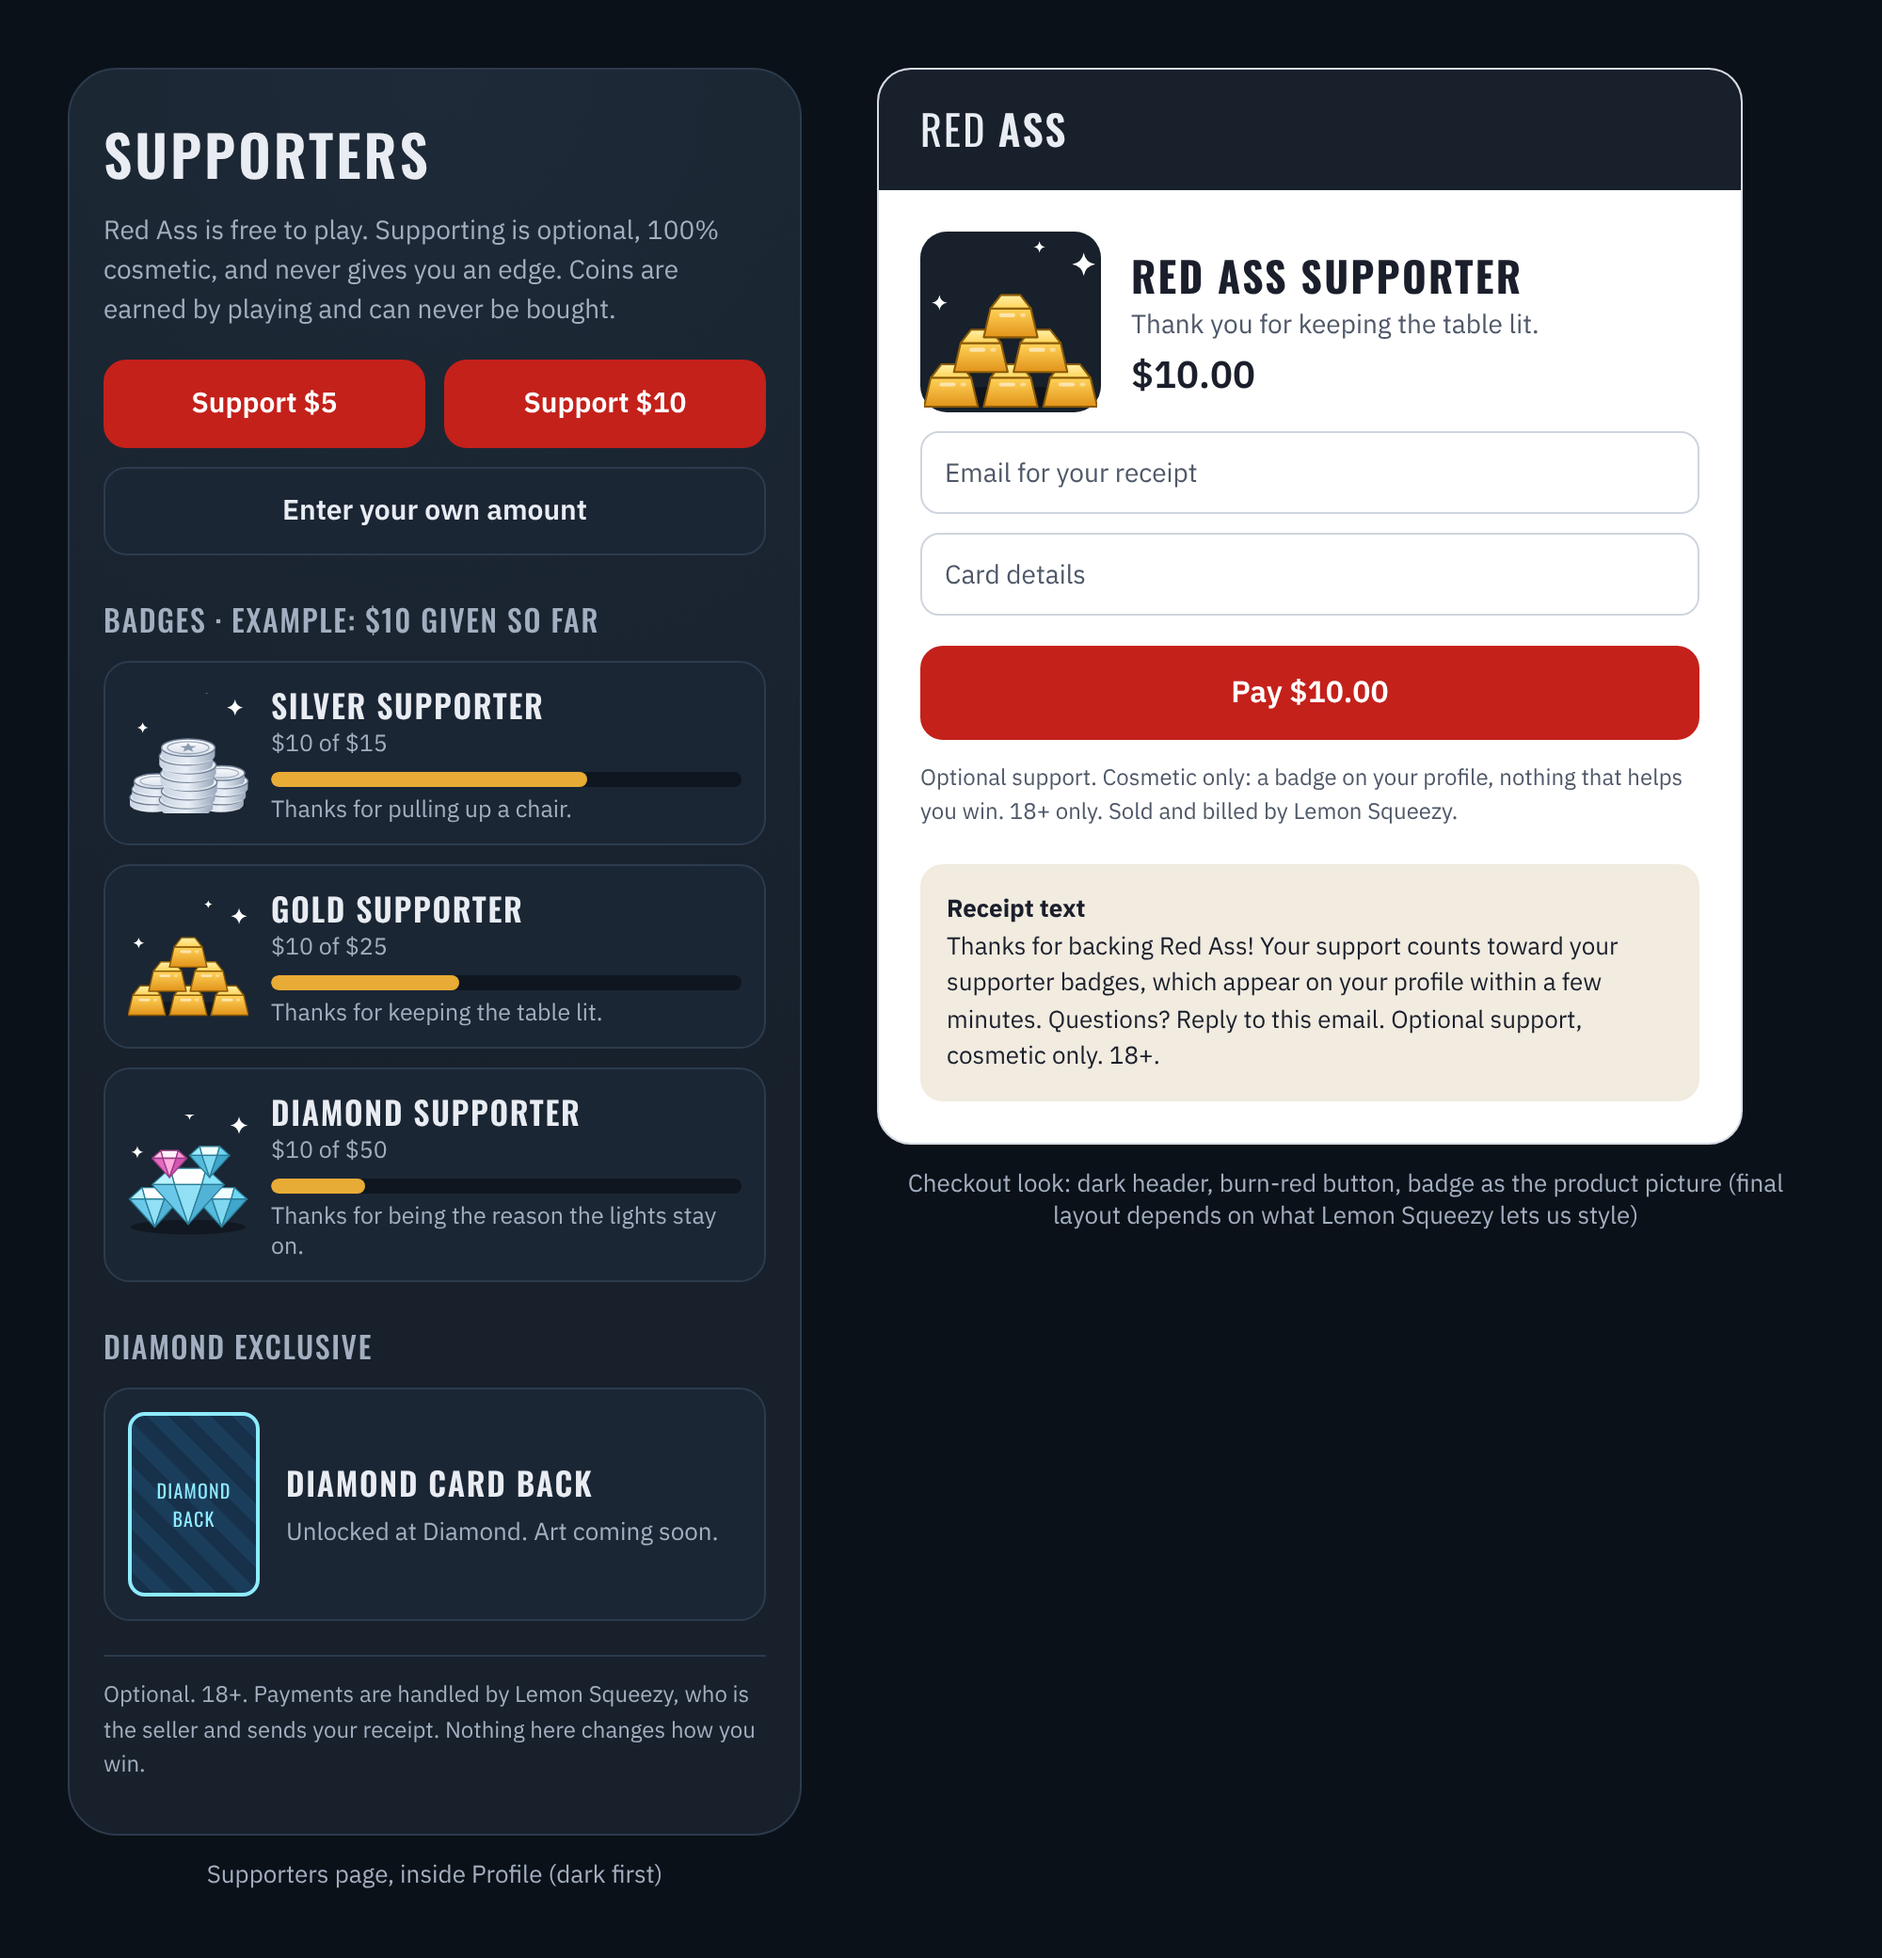
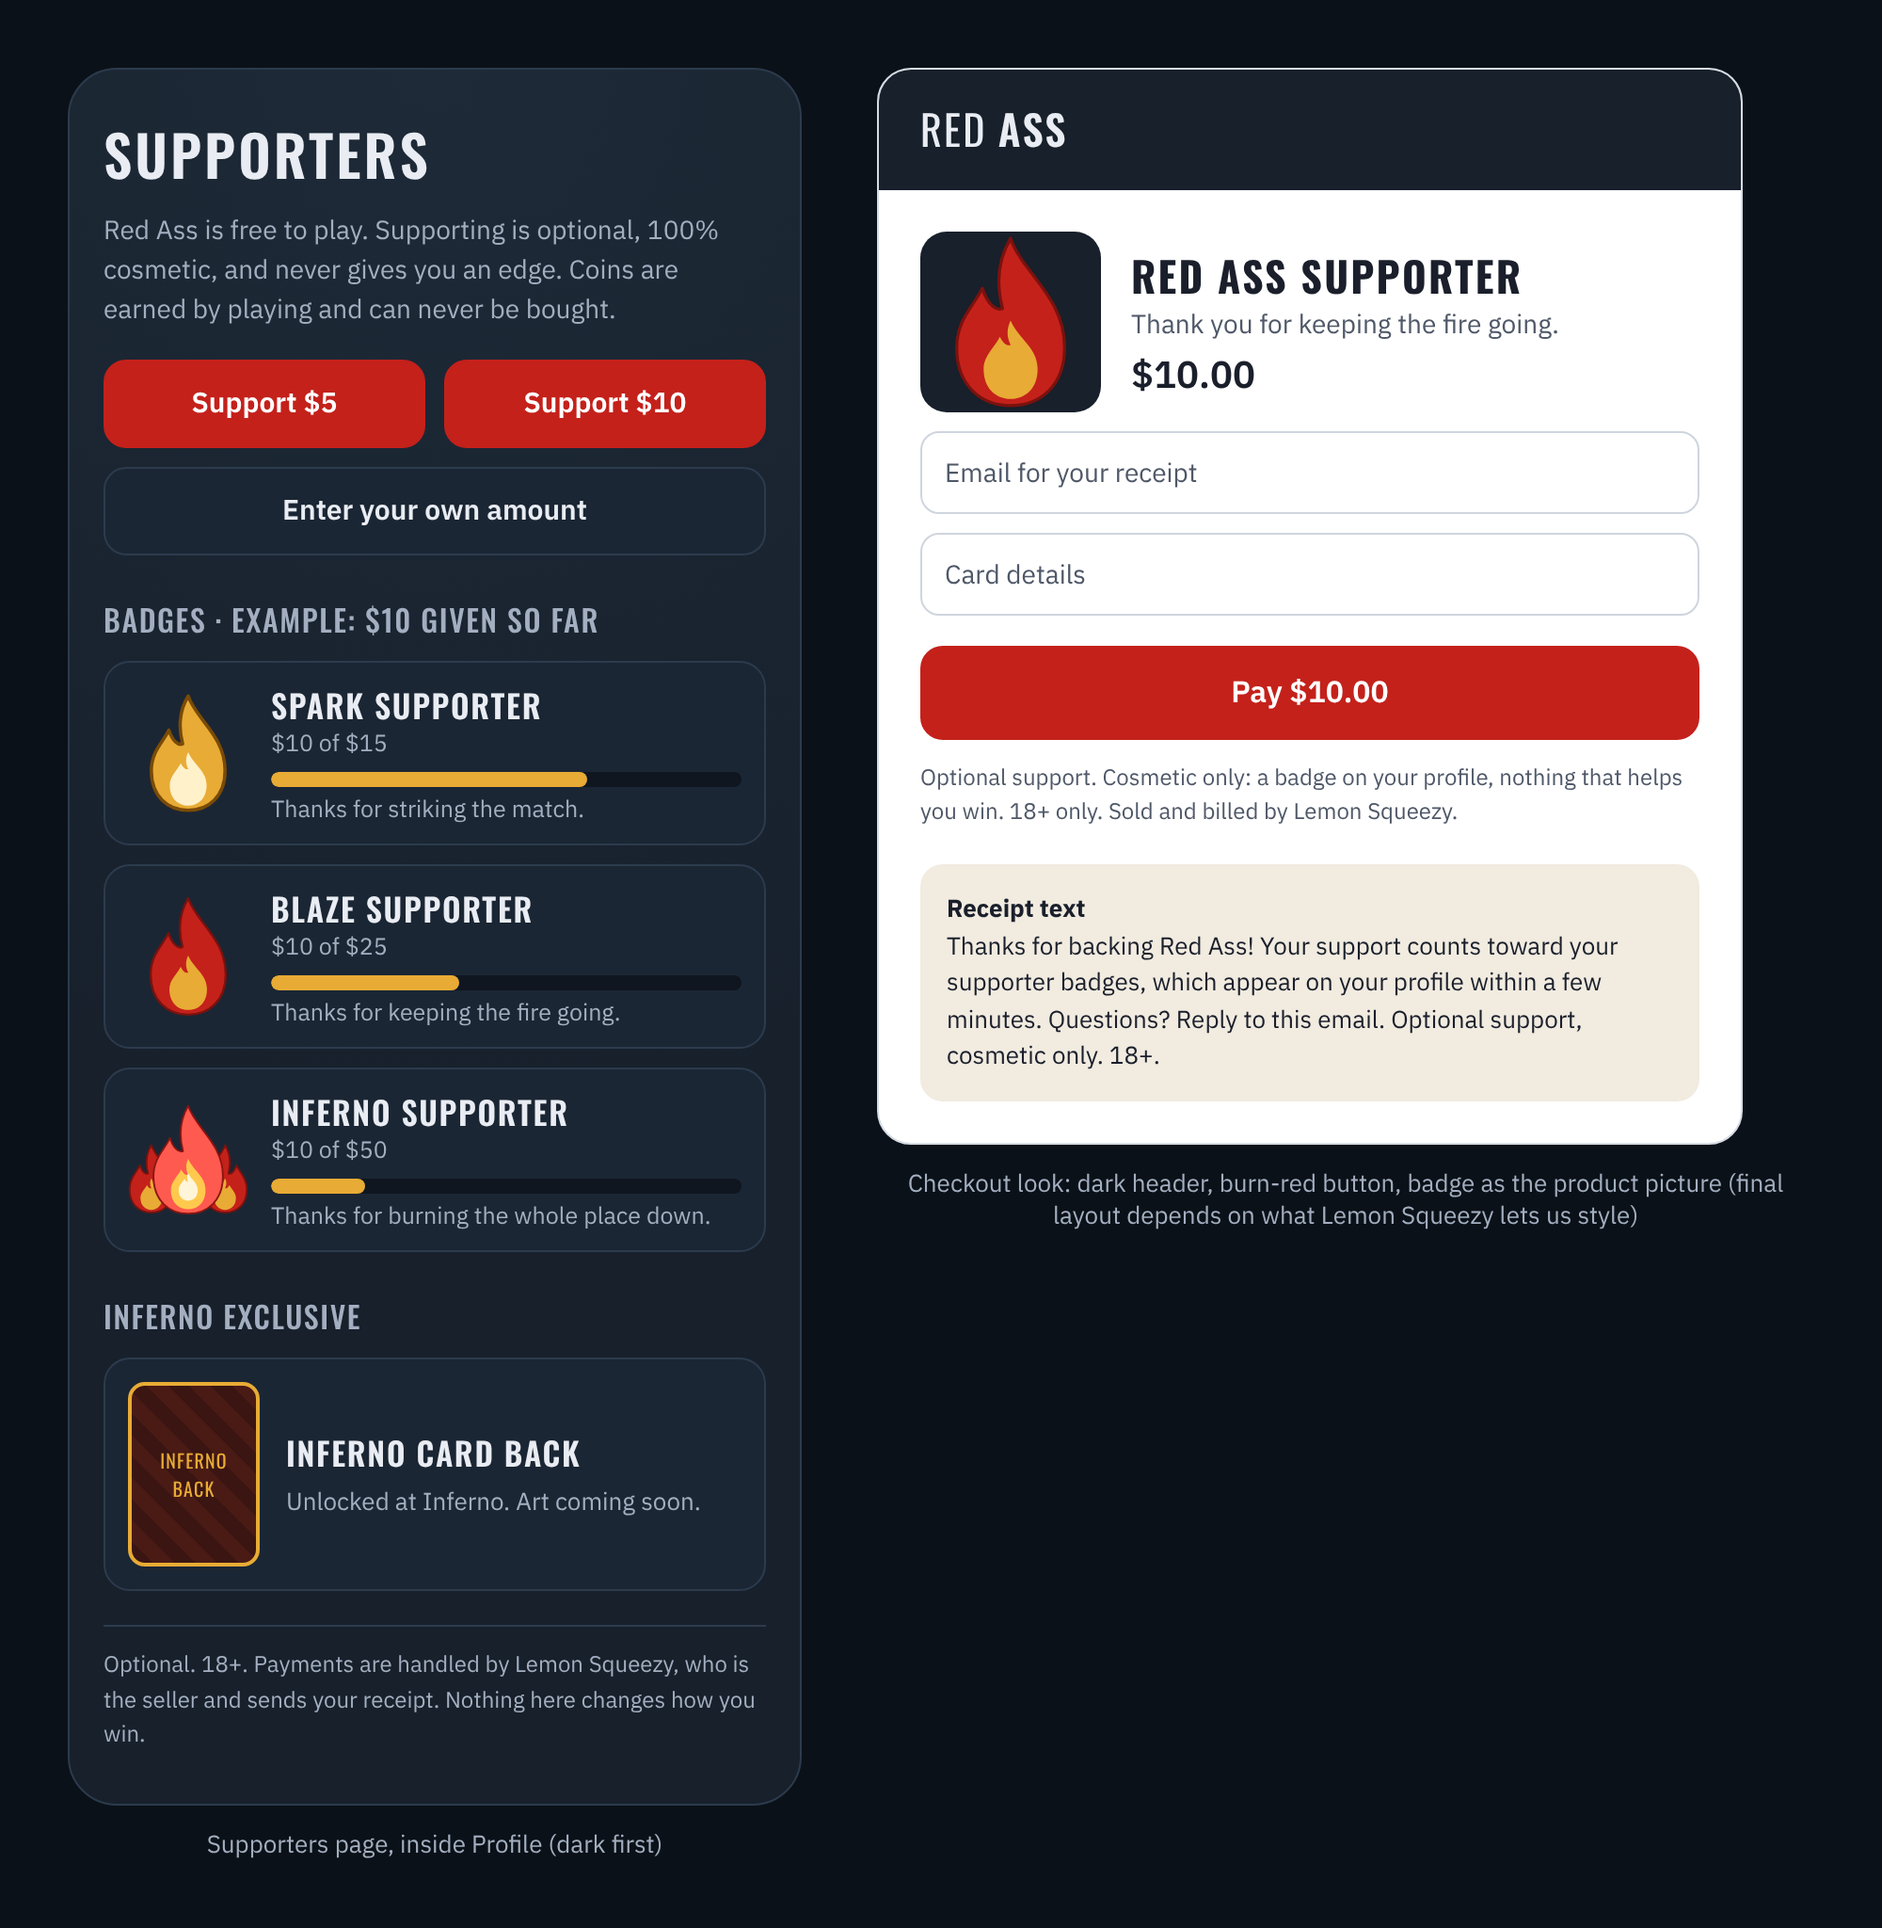
Spark/Blaze/Inferno flame badges, updated mock and notes
Claude-Session: https://claude.ai/code/session_012v383zPebJmBdY8myVNLi8

diff --git a/project/supporters/mock.py b/project/supporters/mock.py
@@ -1,5 +1,5 @@
 from playwright.sync_api import sync_playwright
-def inl(n,w=64): return open(f"badge-{n}.svg").read().replace('viewBox="0 0 240 240" width="240" height="240"',f'viewBox="30 40 180 180" width="{w}" height="{w}"')
+def inl(n,w=64): return open(f"badge-{n}-small.svg").read().replace('width="64" height="64"',f'width="{w}" height="{w}"')
 css='''
 *{box-sizing:border-box}body{margin:0;font-family:'IBM Plex Sans';color:#E9EDF3;background:#0b1118}
 .stage{display:flex;gap:40px;padding:36px;justify-content:center;background:#0b1118}
@@ -14,7 +14,7 @@ h1{font-size:30px;font-weight:600}h2{font-size:16px;font-weight:500;color:#A3AFC
 .tier h3{font-size:17px;font-weight:600}.tier small{color:#A3AFC0;font-size:12.5px}
 .bar{height:8px;border-radius:6px;background:#0f1620;margin:7px 0 4px;overflow:hidden}.bar i{display:block;height:100%;background:#E8AB35;border-radius:6px}
 .bk{display:flex;gap:14px;align-items:center;background:#1b2634;border:1px solid #2C3B4D;border-radius:14px;padding:12px}
-.card{width:70px;height:98px;border-radius:9px;border:2px solid #8EEBFF;background:repeating-linear-gradient(45deg,#17314a 0 8px,#1b3d5c 8px 16px);display:grid;place-items:center;font-size:10px;color:#8EEBFF;text-align:center;font-family:Oswald;letter-spacing:.06em}
+.card{width:70px;height:98px;border-radius:9px;border:2px solid #E8AB35;background:repeating-linear-gradient(45deg,#3a1512 0 8px,#4a1a15 8px 16px);display:grid;place-items:center;font-size:10px;color:#E8AB35;text-align:center;font-family:Oswald;letter-spacing:.06em}
 .fine{font-size:12px;color:#A3AFC0;line-height:1.55;margin-top:18px;border-top:1px solid #2C3B4D;padding-top:12px}
 .co{width:460px;background:#fff;color:#1A1F2B;border-radius:18px;overflow:hidden;border:1px solid #d7dce4}
 .co .hd{background:#17202B;padding:16px 22px;display:flex;align-items:center;gap:10px;color:#E9EDF3}
@@ -28,18 +28,18 @@ h1{font-size:30px;font-weight:600}h2{font-size:16px;font-weight:500;color:#A3AFC
 .rc{margin-top:18px;background:#F1EBE0;border-radius:12px;padding:14px;font-size:13px;line-height:1.5}
 .cap{color:#A3AFC0;font-size:13px;text-align:center;margin-top:12px}
 '''
-tiers=[("silver","Silver Supporter","$10 of $15",67,"Thanks for pulling up a chair."),("gold","Gold Supporter","$10 of $25",40,"Thanks for keeping the table lit."),("diamond","Diamond Supporter","$10 of $50",20,"Thanks for being the reason the lights stay on.")]
+tiers=[("spark","Spark Supporter","$10 of $15",67,"Thanks for striking the match."),("blaze","Blaze Supporter","$10 of $25",40,"Thanks for keeping the fire going."),("inferno","Inferno Supporter","$10 of $50",20,"Thanks for burning the whole place down.")]
 t="".join(f'<div class="tier">{inl(n,64)}<div style="flex:1"><h3>{a}</h3><small>{b}</small><div class="bar"><i style="width:{pc}%"></i></div><small>{c}</small></div></div>' for n,a,b,pc,c in tiers)
 page=f'''<div><div class="phone"><h1>Supporters</h1>
 <p class="sub">Red Ass is free to play. Supporting is optional, 100% cosmetic, and never gives you an edge. Coins are earned by playing and can never be bought.</p>
 <div class="btns"><div class="b p">Support $5</div><div class="b p">Support $10</div><div class="b w">Enter your own amount</div></div>
 <h2>Badges · example: $10 given so far</h2>{t}
-<h2>Diamond exclusive</h2>
-<div class="bk"><div class="card">DIAMOND<br>BACK</div><div><h3 style="font-size:17px;font-weight:600">Diamond card back</h3><p class="sub" style="margin:4px 0 0;font-size:13px">Unlocked at Diamond. Art coming soon.</p></div></div>
+<h2>Inferno exclusive</h2>
+<div class="bk"><div class="card">INFERNO<br>BACK</div><div><h3 style="font-size:17px;font-weight:600">Inferno card back</h3><p class="sub" style="margin:4px 0 0;font-size:13px">Unlocked at Inferno. Art coming soon.</p></div></div>
 <div class="fine">Optional. 18+. Payments are handled by Lemon Squeezy, who is the seller and sends your receipt. Nothing here changes how you win.</div></div>
 <div class="cap">Supporters page, inside Profile (dark first)</div></div>'''
 co=f'''<div><div class="co"><div class="hd"><span>Red <b>Ass</b></span></div><div class="bd">
-<div class="row"><div class="im">{inl("gold",92)}</div><div><h3>Red Ass Supporter</h3><div style="font-size:14px;color:#4F5868">Thank you for keeping the table lit.</div><div class="pr">$10.00</div></div></div>
+<div class="row"><div class="im">{inl("blaze",92)}</div><div><h3>Red Ass Supporter</h3><div style="font-size:14px;color:#4F5868">Thank you for keeping the fire going.</div><div class="pr">$10.00</div></div></div>
 <div class="in">Email for your receipt</div><div class="in">Card details</div>
 <div class="pay">Pay $10.00</div>
 <div class="ft">Optional support. Cosmetic only: a badge on your profile, nothing that helps you win. 18+ only. Sold and billed by Lemon Squeezy.</div>

diff --git a/project/supporters/gen_flames.py b/project/supporters/gen_flames.py
@@ -1,0 +1,34 @@
+import re
+from playwright.sync_api import sync_playwright
+OUT="M50 3C58 28 90 46 90 84C90 112 72 127 50 127C28 127 10 112 10 84C10 63 23 53 29 40C33 52 39 57 44 55C39 36 41 18 50 3Z"
+IN ="M50 64C56 78 70 84 70 100C70 114 61 122 50 122C39 122 30 114 30 100C30 90 38 84 42 76C45 82 48 83 50 82C47 76 47 70 50 64Z"
+def flame(cx,base,s,o,i,stroke,core=None,flip=1):
+    # place so that bottom centre (50,127) sits at (cx,base)
+    g=f'<g transform="translate({cx-50*s*flip:.1f} {base-127*s:.1f}) scale({s*flip} {s})">'
+    g+=f'<path d="{OUT}" fill="{o}" stroke="{stroke}" stroke-width="{3.2/s:.1f}" stroke-linejoin="round"/>'
+    g+=f'<path d="{IN}" fill="{i}"/>'
+    if core: g+=f'<g transform="translate(50 100) scale(.55) translate(-50 -100)"><path d="{IN}" fill="{core}"/></g>'
+    return g+'</g>'
+def spark(x,y,r,c): return f'<circle cx="{x}" cy="{y}" r="{r}" fill="{c}"/>'
+def svg(b): return f'<svg xmlns="http://www.w3.org/2000/svg" viewBox="0 0 240 240" width="240" height="240">{b}</svg>'
+glow=lambda c:f'<ellipse cx="120" cy="206" rx="70" ry="9" fill="{c}" fill-opacity=".28"/>'
+# SPARK: one small amber flame + two sparks
+spark_b=glow("#E8AB35")+flame(120,200,0.9,"#E8AB35","#FFF1C9","#7a4b06")+spark(70,150,4,"#E8AB35")+spark(176,120,3,"#FFF1C9")+spark(88,96,2.5,"#E8AB35")
+# BLAZE: the logo flame, big (exact brand colours)
+blaze_b=glow("#C4211B")+flame(120,202,1.4,"#C4211B","#E8AB35","#7a120e")+spark(48,130,4,"#FF5A4F")+spark(196,92,4,"#E8AB35")+spark(180,150,3,"#FF5A4F")
+# INFERNO: big centre flame in ember, two red side flames, white-hot core, sparks
+inf_b=glow("#FF5A4F")+flame(52,204,1.0,"#C4211B","#E8AB35","#7a120e")+flame(188,204,1.0,"#C4211B","#E8AB35","#7a120e",flip=-1)+flame(120,206,1.6,"#FF5A4F","#FFC94D","#8a1511","#FFF6DA")+spark(40,110,4,"#FF5A4F")+spark(204,98,4,"#FFC94D")+spark(150,40,3,"#FFF6DA")+spark(88,48,3,"#FF5A4F")
+data={"spark":spark_b,"blaze":blaze_b,"inferno":inf_b}
+with sync_playwright() as p:
+    b=p.chromium.launch(); pg=b.new_page()
+    for n,body in data.items():
+        s=svg(body); open(f"badge-{n}.svg","w").write(s)
+        pg2=b.new_page(viewport={"width":512,"height":512}); pg2.set_content(f'<body style="margin:0">{s.replace(chr(34)+"240"+chr(34)+" height="+chr(34)+"240"+chr(34),chr(34)+"512"+chr(34)+" height="+chr(34)+"512"+chr(34))}</body>'); pg2.screenshot(path=f"badge-{n}.png",omit_background=True)
+        # small: drop glow + tiny sparks, tight square crop
+        sm=re.sub(r'<ellipse[^>]*/>','',s); sm=re.sub(r'<circle[^>]*/>','',sm)
+        pg.set_content(sm); x,y,w,h=pg.evaluate("(()=>{const b=document.querySelector('svg').getBBox();return [b.x,b.y,b.width,b.height]})()")
+        m=max(w,h)+6; sm=sm.replace('viewBox="0 0 240 240" width="240" height="240"',f'viewBox="{x+w/2-m/2:.1f} {y+h/2-m/2:.1f} {m:.1f} {m:.1f}" width="64" height="64"')
+        open(f"badge-{n}-small.svg","w").write(sm)
+    rows="".join(f'<div style="margin:8px 16px"><small style="color:#A3AFC0">{n}</small><div style="display:flex;gap:10px;align-items:flex-end;background:#1b2634;padding:8px 10px;border-radius:10px">'+"".join(open(f"badge-{n}-small.svg").read().replace('width="64" height="64"',f'width="{w}" height="{w}"') for w in (15,22,34))+open(f"badge-{n}.svg").read().replace('width="240" height="240"','width="130" height="130"')+'</div></div>' for n in data)
+    pg.set_viewport_size({"width":640,"height":210}); pg.set_content(f'<body style="background:#17202B;margin:0;display:flex;font-family:IBM Plex Sans">{rows}</body>'); pg.screenshot(path="flames-sheet.png")
+    b.close()

diff --git a/project/supporters/SUPPORTERS-ART-NOTES.md b/project/supporters/SUPPORTERS-ART-NOTES.md
@@ -1,14 +1,11 @@
-# Supporter badges: art direction and wording (Social, DRAFT 2026-10-30, awaiting Jonathan)
+# Supporter badges: art direction and wording (Social, 2026-10-30; Jonathan chose the flame ladder at 14:30)
 
-**Files:** badge-silver / badge-gold / badge-diamond (.svg and 512 px transparent .png), badges-sheet.png, supporters-mock.png. Generated by gen_badges.py.
-
-**Direction:** treasure, not casino. Coin stacks are plain with a star (never chips, no suits, no dice); ingots and gems are clean stacks and piles. Flat glossy-vinyl look now; glossy 3D can follow.
-**Colours (must not clash with rarity frames):** Silver = cool white-silver (not Smoke grey). Gold = deeper orange-gold (not Legendary #E8AB35 frame). Diamond = ice cyan with one pink gem (not Rare blue / Epic purple). Never colour alone: name text always shown.
-
+**Names (display text only; tiers by lifetime dollars: 15 / 25 / 50):** Spark Supporter ($15), Blaze Supporter ($25), Inferno Supporter ($50). Replaces Silver / Gold / Diamond. Exclusive reward at Inferno: the **Inferno card back** (was "Diamond back").
+**Art:** one flame that grows. Spark = one small amber flame; Blaze = the real logo flame (red outer, gold inner), big; Inferno = a cluster of three flames with a white-hot core. Reads by size and count at 15 px, not by colour alone; always show the name text where there is room. Files: badge-spark / badge-blaze / badge-inferno (.svg, 512 px .png) for pages; `-small.svg` (tight, no sparkles) for 15 / 22 / 34 px. Generated by gen_flames.py. Old treasure art (silver coins / gold ingots / diamonds, and Grok's candidates in grok/) is kept but retired.
 **Wording**
-- Badge names: Silver Supporter, Gold Supporter, Diamond Supporter.
-- Thank-yous: Silver "Thanks for pulling up a chair." Gold "Thanks for keeping the table lit." Diamond "Thanks for being the reason the lights stay on."
+- Spark "Thanks for striking the match." Blaze "Thanks for keeping the fire going." Inferno "Thanks for burning the whole place down."
 - Page line: "Red Ass is free to play. Supporting is optional, 100% cosmetic, and never gives you an edge. Coins are earned by playing and can never be bought."
 - Fine print: "Optional. 18+. Payments are handled by Lemon Squeezy, who is the seller and sends your receipt. Nothing here changes how you win."
-- ASSUMPTION to confirm: the 15 / 25 / 50 goals are dollars of lifetime support.
-- No (R), never "trademarked"; nothing announced until live.
+- Goals are US dollars of lifetime support (confirmed by Browser). Players see only the tier badge on others, never an amount.
+- Checkout product name: "Red Ass Supporter". No (R), never "trademarked"; nothing announced until live.
+**Watch:** Inferno uses red + gold like the Server First rarity frame; kept apart by shape (flame vs frame). Rarity frames are drawn by the UI, so no overlap in practice.
